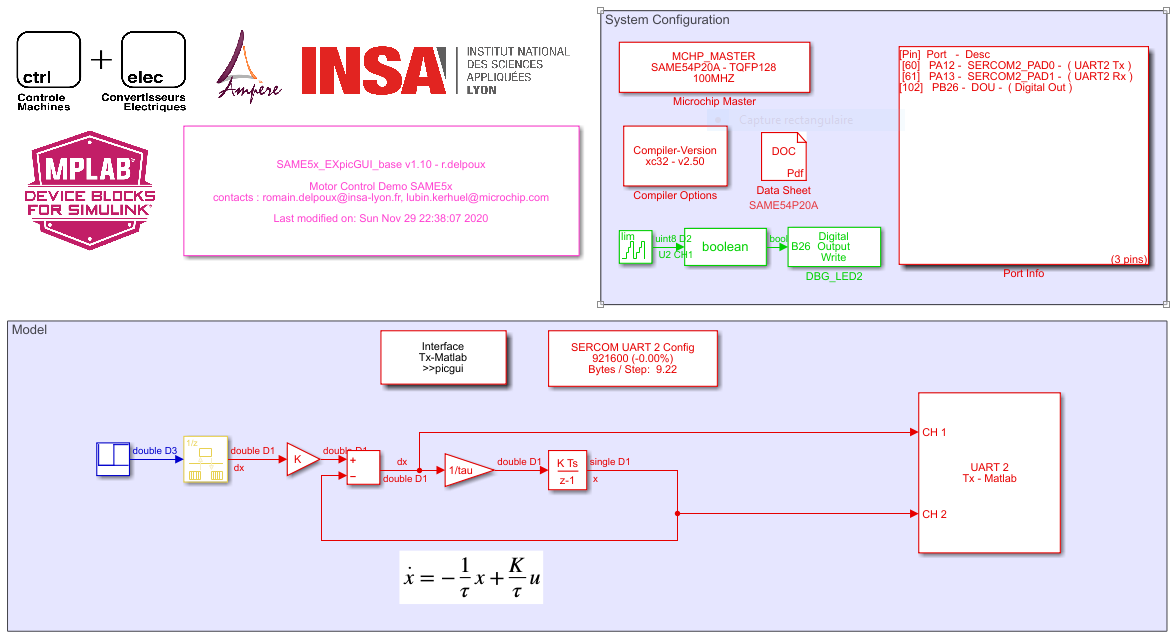
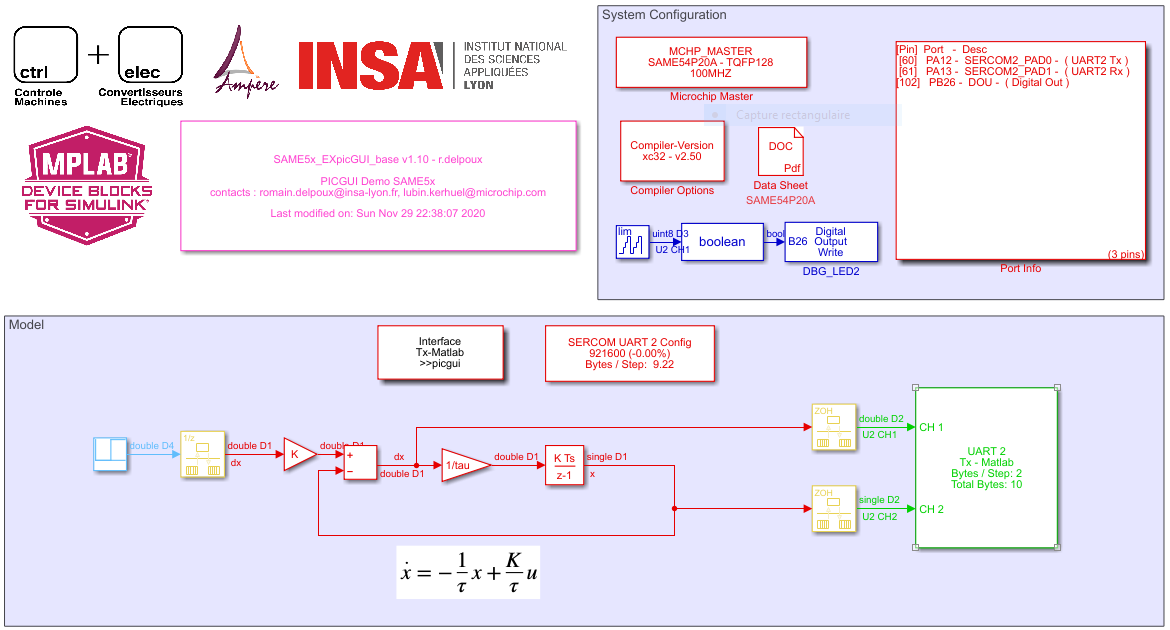
Serial_matlab.PNG

Changed region(s): [[0.0, 0.0, 1.0, 0.9952], [0.0615, 0.6032, 0.9231, 0.8746], [0.2769, 0.8444, 0.5538, 0.9349]]

diff --git a/HMI/HMI.md b/HMI/HMI.md
@@ -24,7 +24,13 @@ The pin connection is represented below.
 
 The use of **picgui** is illustrated through a simple exemple. A repeating sequence stair sapled at 1s is apply to a simple fisrt order system where K= 1 and tau = 0.1. The input and the output of the system are linked to the with **Tx - Matlab block** to plot using **picgui**. The model used is represented blow and can be download [here](https://github.com/rdelpoux/rdelpoux.github.io/blob/master/Dev/ExPicGUI/SAME5x_EXpicGUI_base.slx): 
 
-<img src="https://rdelpoux.github.io/img/picGUI/ModelSerial_base.PNG">
+<img src="https://rdelpoux.github.io/img/picGUI/ModelSerial_base.PNG" title="pigui demo: base">
+
+The model is sampled at 0.1ms while the UART is sampled at 0.5ms. The uart configuration is the following : 
+
+<img src="https://rdelpoux.github.io/img/picGUI/Serial_matlab.PNG" width = "500">
+
+
 
 
 
